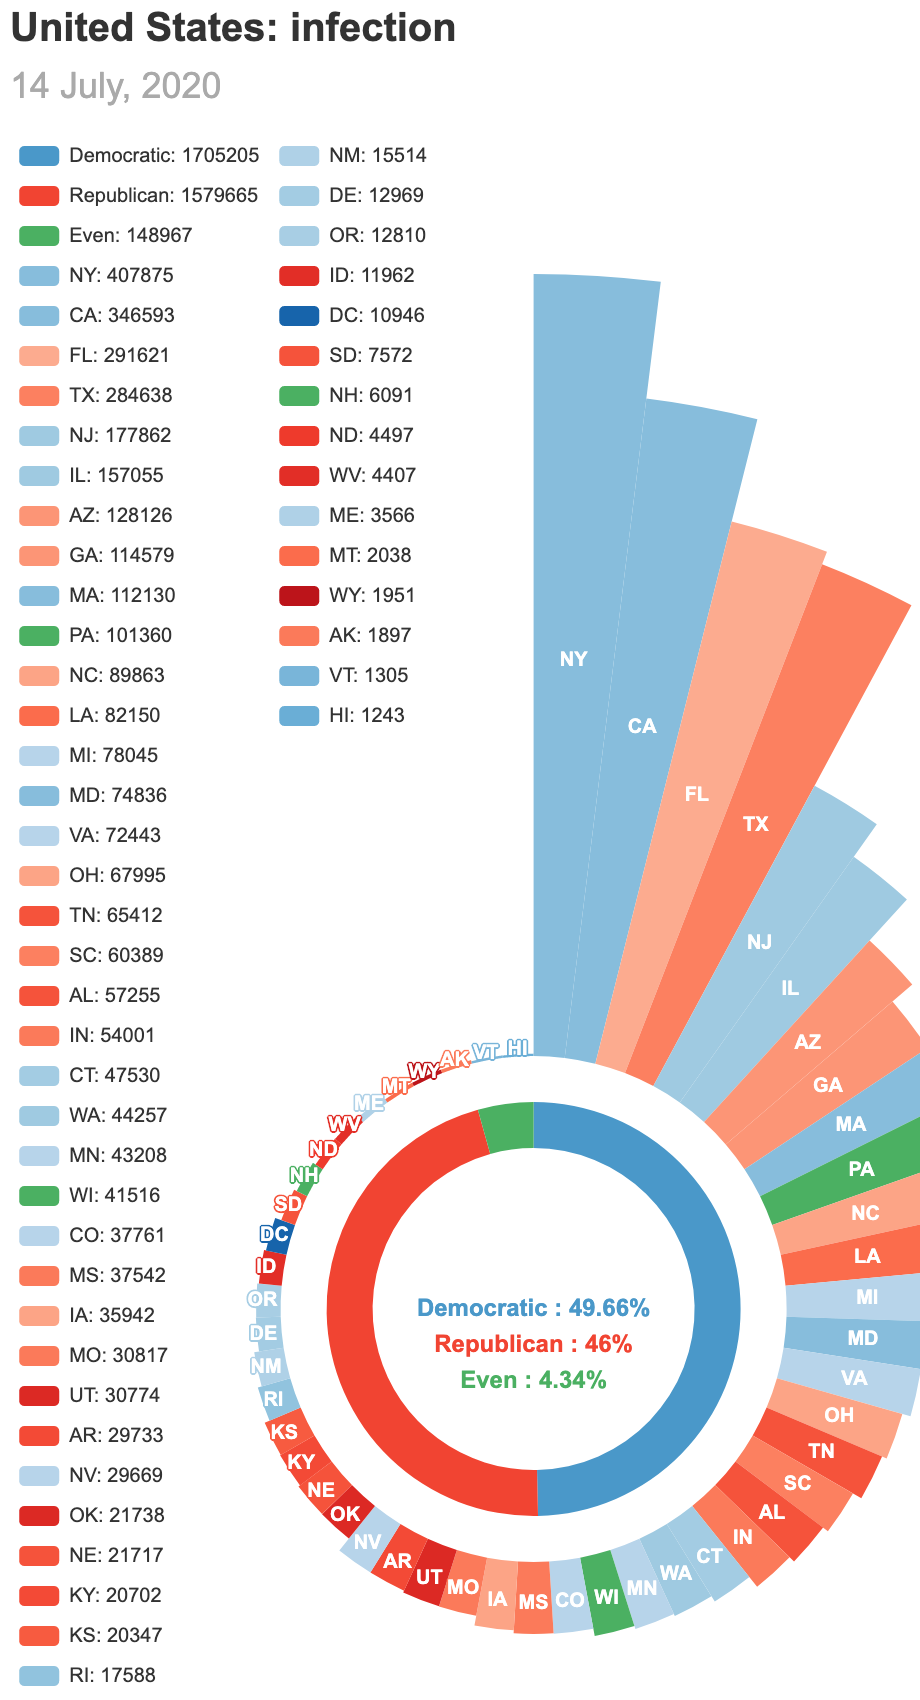
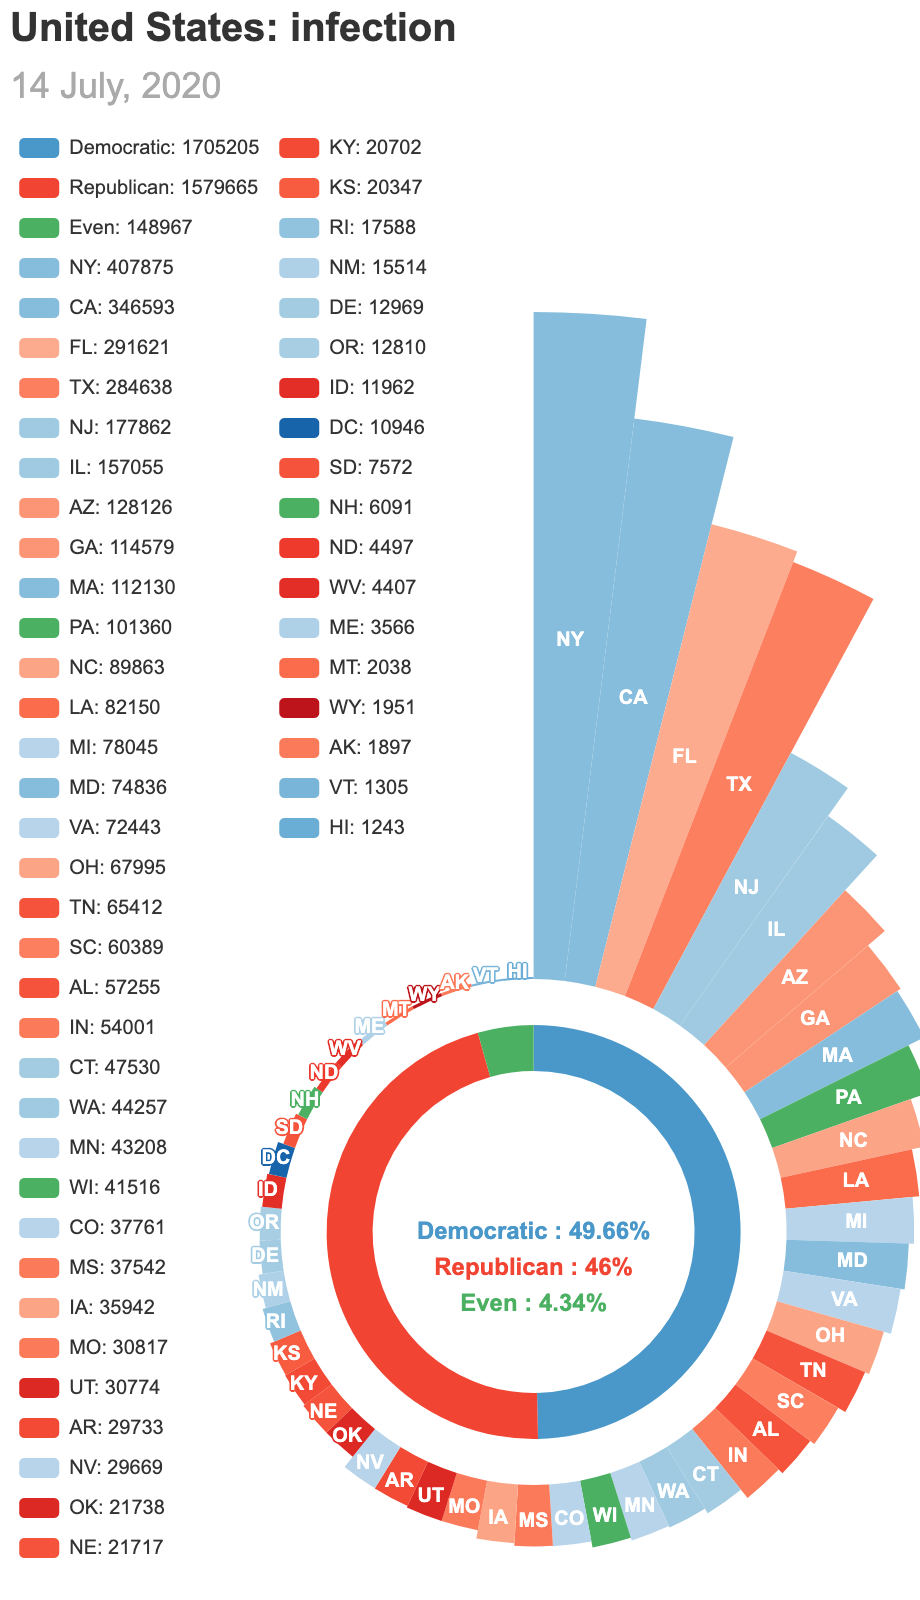
Add files via upload

diff --git a/covid-19/figures_us/US_rose.html b/covid-19/figures_us/US_rose.html
@@ -7,11 +7,11 @@
 
 </head>
 <body>
-    <div id="98ea91e506454806a10ecb11e3155d0a" class="chart-container" style="width:460px; height:850px;"></div>
+    <div id="1dc0c736c0cb45118a7642dd59f32c6c" class="chart-container" style="width:460px; height:800px;"></div>
     <script>
-        var chart_98ea91e506454806a10ecb11e3155d0a = echarts.init(
-            document.getElementById('98ea91e506454806a10ecb11e3155d0a'), 'white', {renderer: 'canvas'});
-        var option_98ea91e506454806a10ecb11e3155d0a = {
+        var chart_1dc0c736c0cb45118a7642dd59f32c6c = echarts.init(
+            document.getElementById('1dc0c736c0cb45118a7642dd59f32c6c'), 'white', {renderer: 'canvas'});
+        var option_1dc0c736c0cb45118a7642dd59f32c6c = {
     "animation": true,
     "animationThreshold": 2000,
     "animationDuration": 1000,
@@ -325,7 +325,7 @@
             ],
             "radius": [
                 "55%",
-                "225%"
+                "200%"
             ],
             "center": [
                 "58%",
@@ -444,7 +444,7 @@
         }
     ]
 };
-        chart_98ea91e506454806a10ecb11e3155d0a.setOption(option_98ea91e506454806a10ecb11e3155d0a);
+        chart_1dc0c736c0cb45118a7642dd59f32c6c.setOption(option_1dc0c736c0cb45118a7642dd59f32c6c);
     </script>
 </body>
 </html>

diff --git a/covid-19/figures_us/US_rose_death.html b/covid-19/figures_us/US_rose_death.html
@@ -7,11 +7,11 @@
 
 </head>
 <body>
-    <div id="ded2102d63cb4b75b9945f88b854097a" class="chart-container" style="width:460px; height:850px;"></div>
+    <div id="d2f4f8666e16424084b89dae89c81dc0" class="chart-container" style="width:460px; height:850px;"></div>
     <script>
-        var chart_ded2102d63cb4b75b9945f88b854097a = echarts.init(
-            document.getElementById('ded2102d63cb4b75b9945f88b854097a'), 'white', {renderer: 'canvas'});
-        var option_ded2102d63cb4b75b9945f88b854097a = {
+        var chart_d2f4f8666e16424084b89dae89c81dc0 = echarts.init(
+            document.getElementById('d2f4f8666e16424084b89dae89c81dc0'), 'white', {renderer: 'canvas'});
+        var option_d2f4f8666e16424084b89dae89c81dc0 = {
     "animation": true,
     "animationThreshold": 2000,
     "animationDuration": 1000,
@@ -444,7 +444,7 @@
         }
     ]
 };
-        chart_ded2102d63cb4b75b9945f88b854097a.setOption(option_ded2102d63cb4b75b9945f88b854097a);
+        chart_d2f4f8666e16424084b89dae89c81dc0.setOption(option_d2f4f8666e16424084b89dae89c81dc0);
     </script>
 </body>
 </html>
